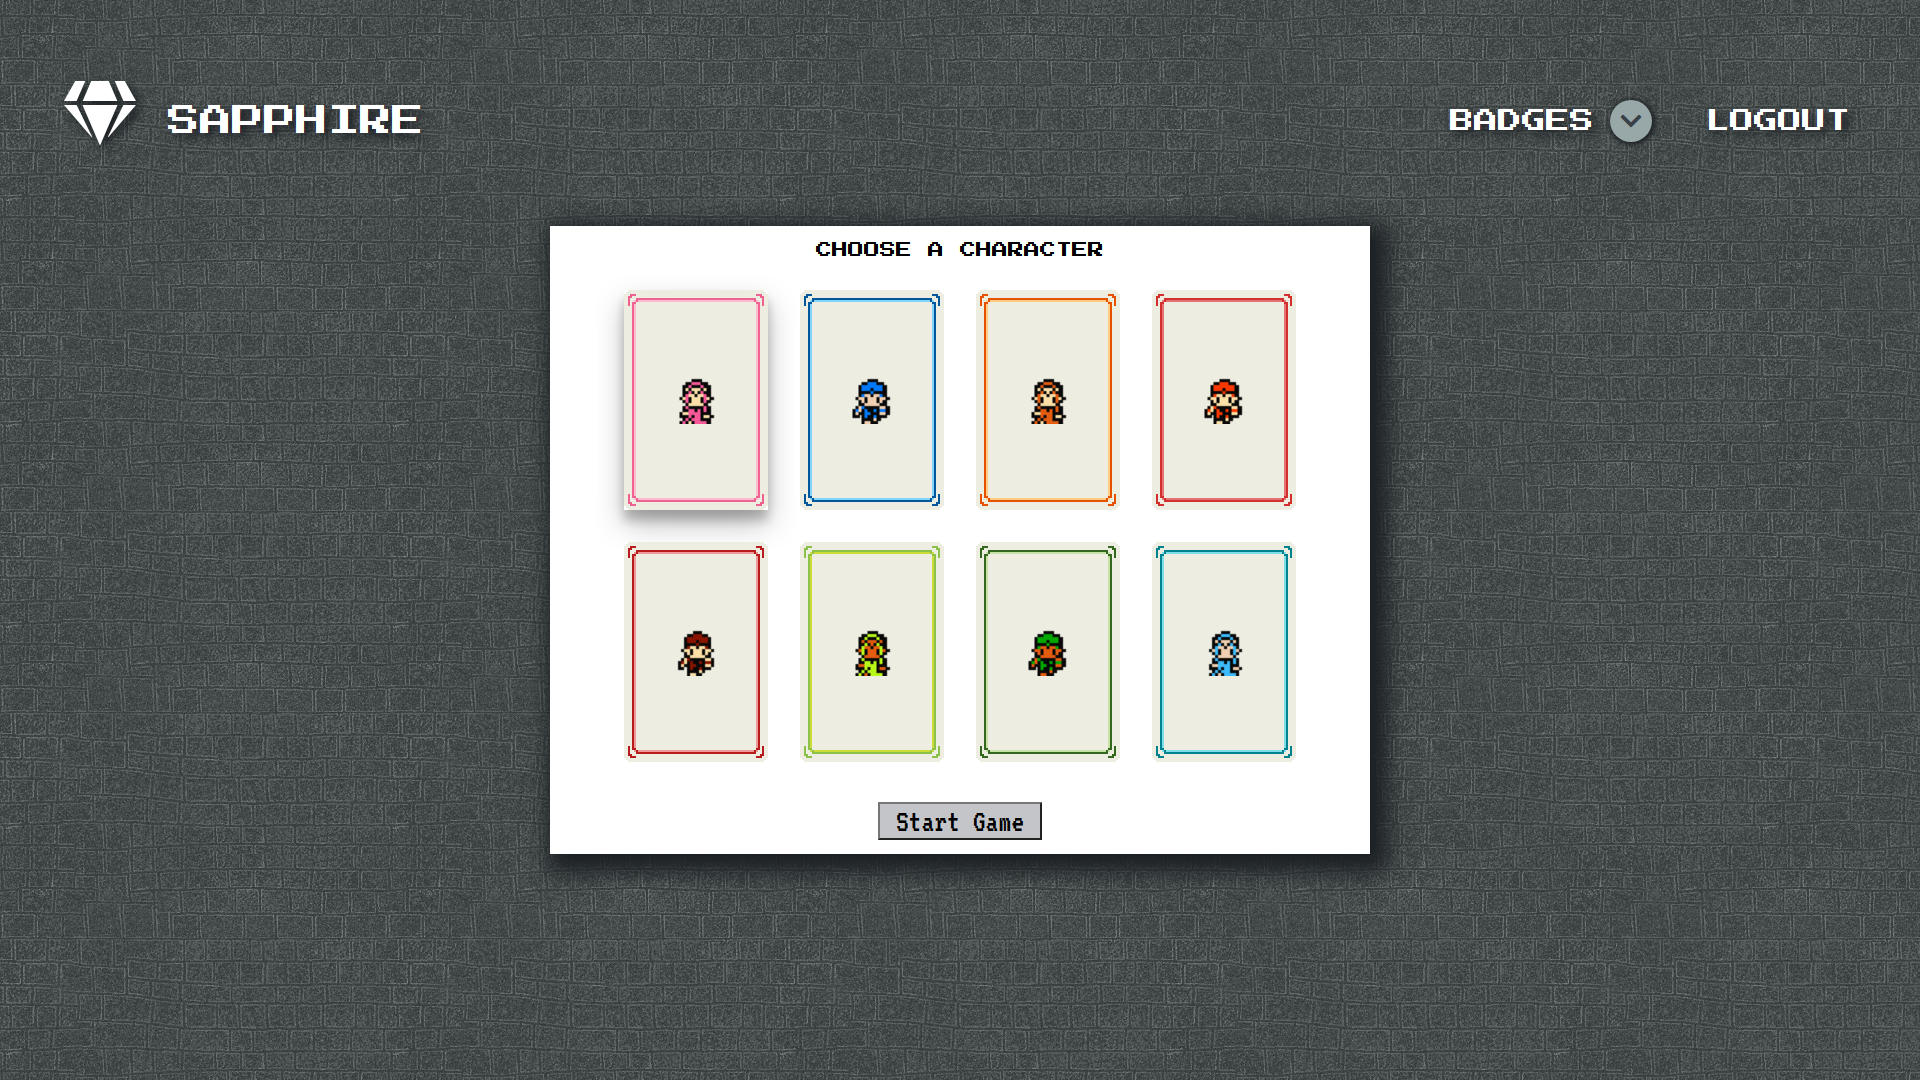
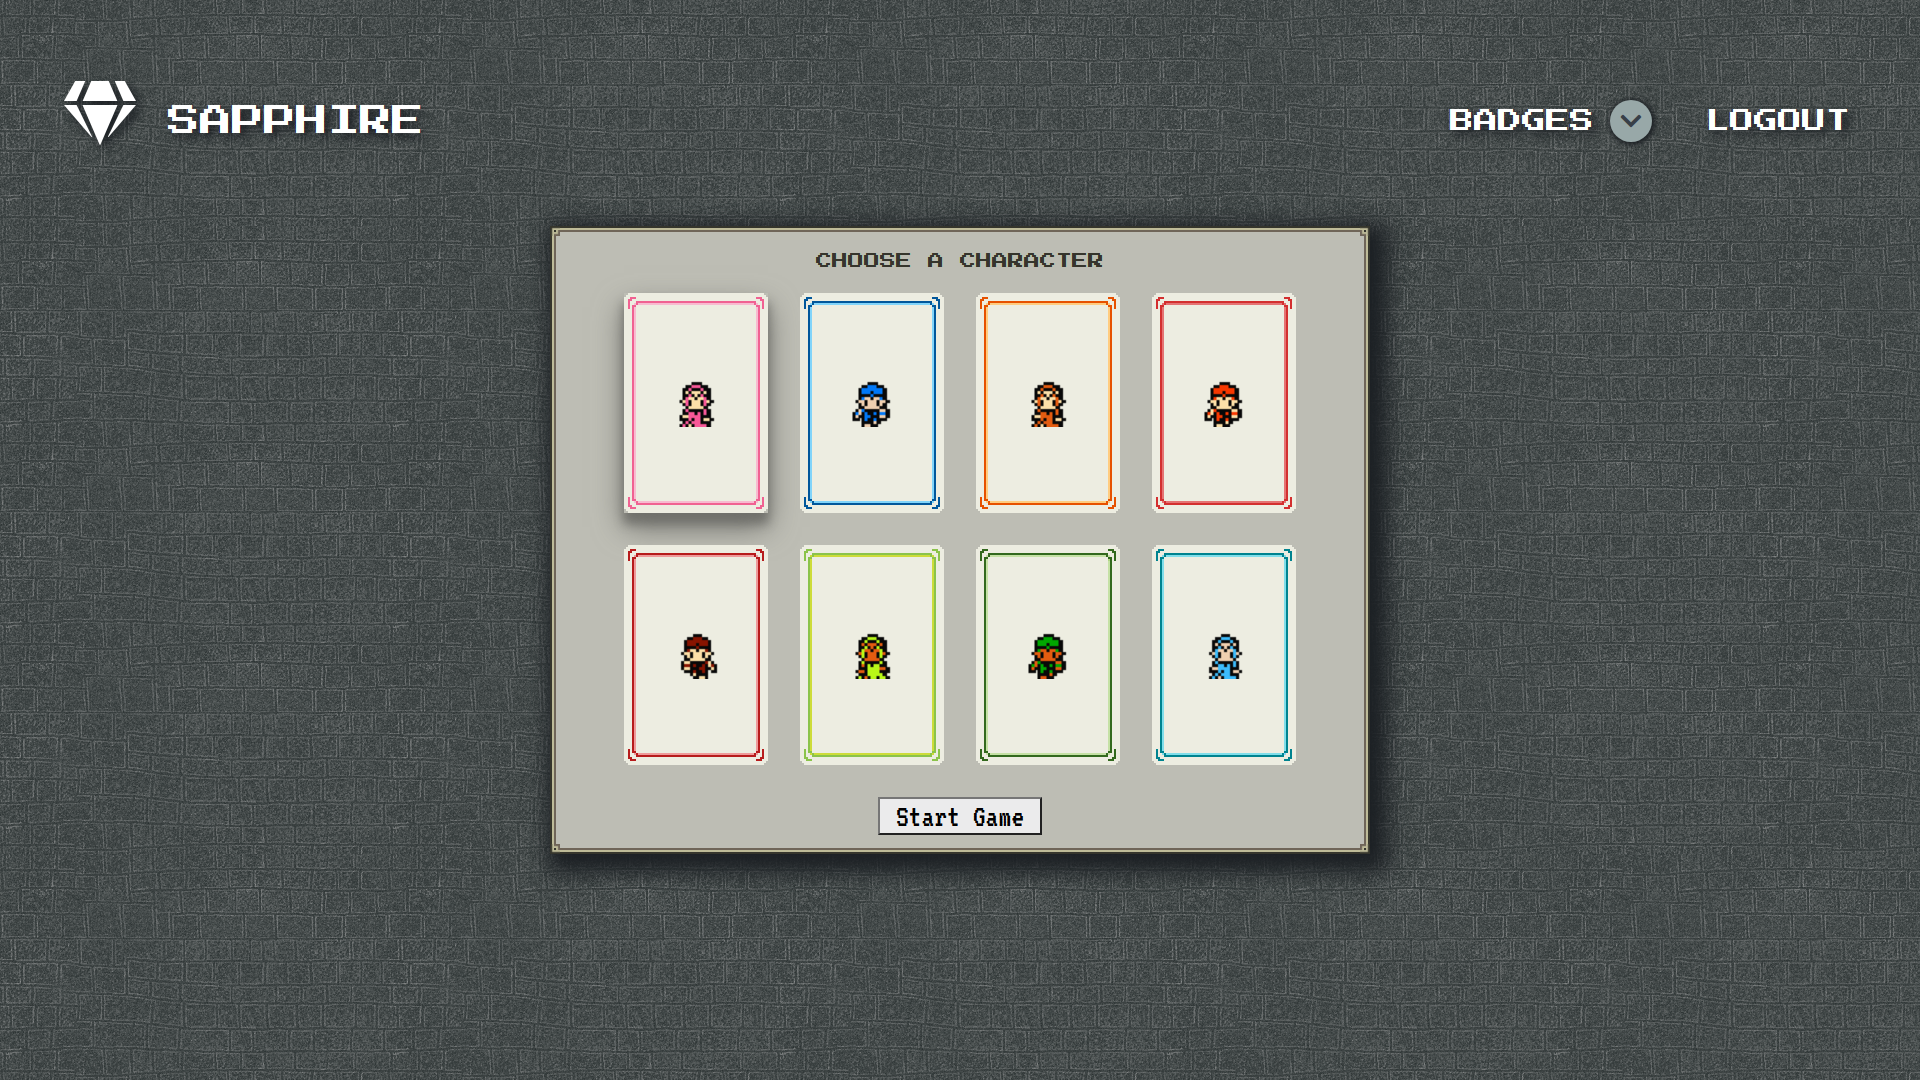
updated desert game button - updated character select styling - update readme

Changed region(s): [[0.2812, 0.1833, 0.7188, 0.7944]]

diff --git a/react-front-end/src/styles/TitlePage.scss b/react-front-end/src/styles/TitlePage.scss
@@ -35,6 +35,10 @@
   display: flex;
   flex-direction: column;
   align-items: center;
+  background-color: #bdbdb4;
+  border: solid;
+  border-image: url("/assets/borderbox-char.png") 25 / 10px 10px 10px 10px
+    stretch;
   box-shadow: 8px 8px 20px 10px #1c2024;
   z-index: 1;
 
@@ -47,18 +51,22 @@
 
   .start-btn {
     font-family: "VT323", monospace;
-    margin-top: 1.5rem;
+    margin-top: 1rem;
     font-size: 2rem;
     padding-left: 1rem;
     padding-right: 1rem;
-    background-color: #c3c5c8;
+    background-color: #ebebec;
   }
   .start-btn:hover {
-    background-color: #ebebec;
+    background-color: #f9f9f9;
   }
 
   .choose {
+    padding-top: 0.5em;
     font-family: "Press Start 2P", cursive;
+    color: #35352c;
+    padding-top: 1.5rem;
+    padding-bottom: 0.5rem;
   }
 }
 

diff --git a/react-front-end/src/components/Character.jsx b/react-front-end/src/components/Character.jsx
@@ -49,7 +49,7 @@ const Character = (props) => {
     backgroundImage: `url(/assets/cards/card_${color}.png)`,
     boxShadow:
       currentColor === color
-        ? "0 14px 28px rgba(0,0,0,0.25), 0 10px 10px rgba(0,0,0,0.22)"
+        ? "0 14px 28px #71716c, 0 10px 10px #71716c"
         : "none",
     opacity,
     transform: transform.interpolate((t) => `${t} rotateY(180deg)`),

diff --git a/react-front-end/src/components/ChooseChar.jsx b/react-front-end/src/components/ChooseChar.jsx
@@ -61,7 +61,7 @@ const ChooseChar = (props) => {
   });
   return (
     <div className="choose-character">
-      <p className="choose">CHOOSE A CHARACTER</p>
+      <span className="choose">CHOOSE A CHARACTER</span>
 
       <div className="all-characters">{allCharacters}</div>
 
